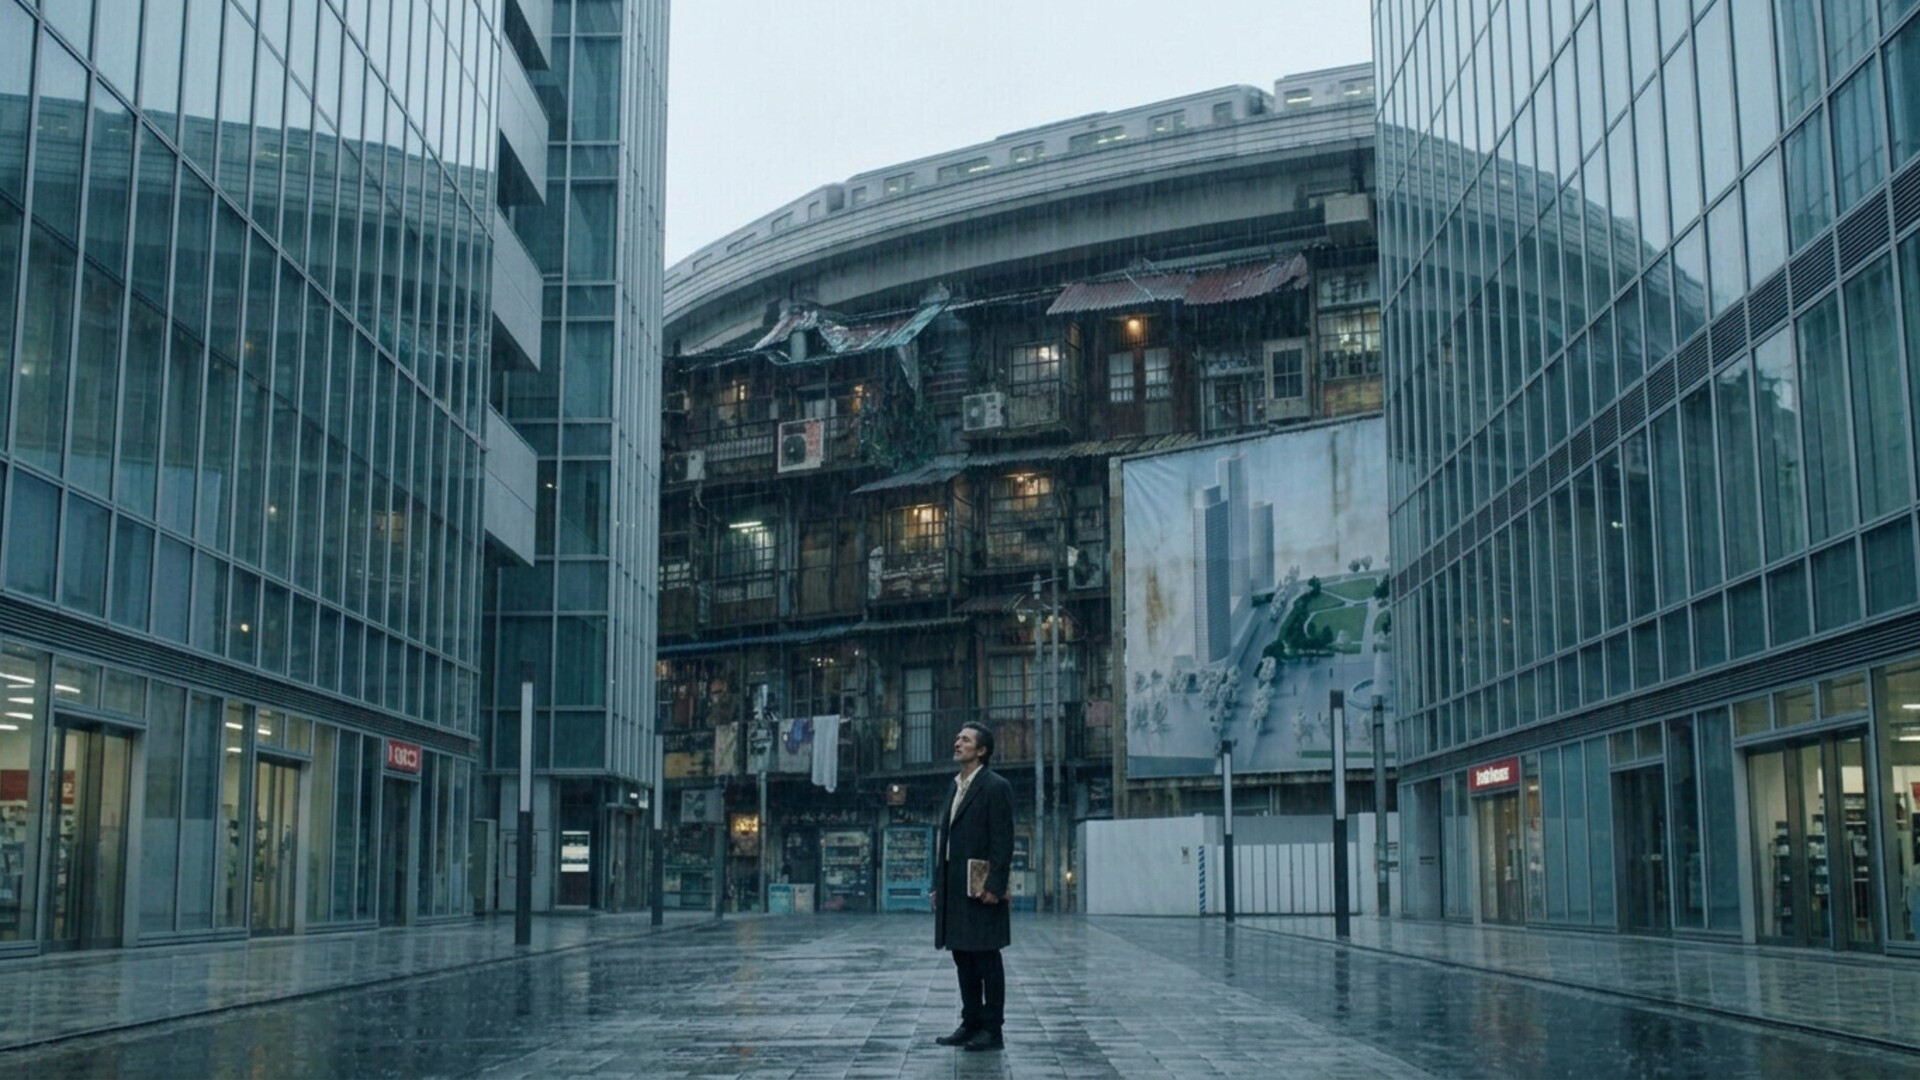
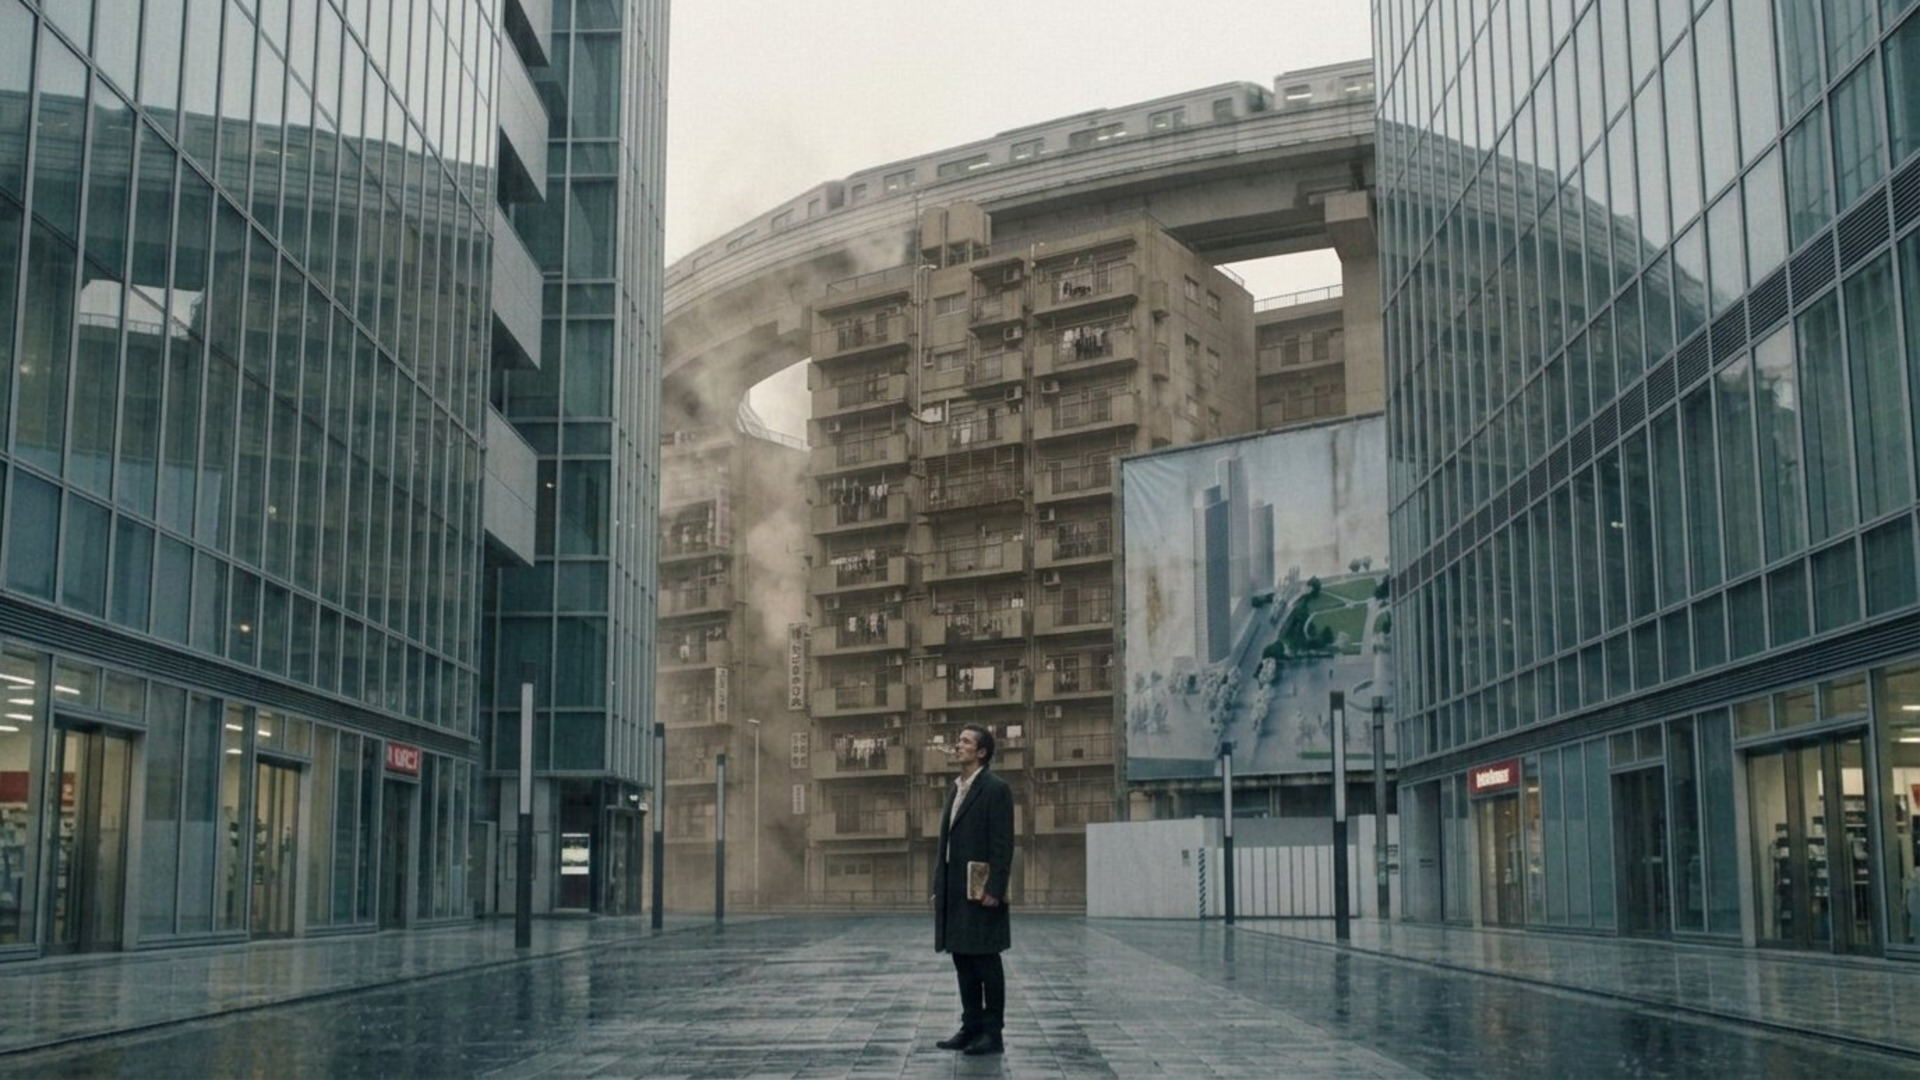
Neonoire: Hive retakes — wrong-building tier started (184 installed, six queued behind the image cap)
- hiveRetakenExteriors (7): the director's 'wrong building and wrong look' tier,
  retaken 29 September 2026 as base-frame edits with the canon sheet alongside as
  the architecture reference; s15/184 retaken and installed (canon tower between
  the glass towers, day murk, staging and unlettered banner held).
- The other six tier-1 frames hold their originals: the first attempts kept the
  old wooden facade; canon-sheet regeneration queued first next session (the
  per-turn image cap stopped mid-pass).
- Queue restructured to the tiers: hiveCanonRetakes (3 interior set failures),
  hiveLookRetakes (24 look only), hiveNextPassPlan (27); verify updated and green.
- Ledger retake-pass section + caveats, handoff current state, shot 186 board note.

diff --git a/docs/neonoire/passes/hive-canon.md b/docs/neonoire/passes/hive-canon.md
@@ -1,6 +1,6 @@
 # NEONOIRE — the Hive canon: one building, one look file (28 September 2026)
 
-**Scope:** no shots generated this pass beyond the six canon sheets; the retakes queue as the next generation pass (thirty-four frames, one call each). The deliverable is [`scripts/neonoire/hive-canon-look.mjs`](../../../scripts/neonoire/hive-canon-look.mjs): the canonical geometry, the six sheet prompts with their reference chain, the shared negative prompt, the NIGHT and DAY look sections, the standing rules, and the retake queue.
+**Scope:** no shots generated the canon pass beyond the six canon sheets; the retakes queued as the next generation pass (thirty-four frames, one call each) have since been broken into the director's tiers — the seven wrong-building exteriors were retaken on 29 September 2026 (below), twenty-seven frames remain queued. The deliverable is [`scripts/neonoire/hive-canon-look.mjs`](../../../scripts/neonoire/hive-canon-look.mjs): the canonical geometry, the six sheet prompts with their reference chain, the shared negative prompt, the NIGHT and DAY look sections, the standing rules, and the retake queue.
 
 **The problem.** The Hive was boarded across five sessions from five look files, and each described the building differently: s15/184 a squat 6–7-storey block on a plaza; s59/226 a tall narrow tower on a tight street; s92/135 a nine-storey slab by a viaduct pillar; s97 a five-storey block with the railway at height; s99/156 an ordinary apartment block. Inside, s55/221 drew the counter as a white-tiled corridor with the 金子 sign ON the counter, s68/235 gave the storeroom shelving and a teal doorway, and s85/119 drew the passage three abreast where the draft says single file. The draft itself contradicts itself: "eleven storeys", yet scene 90 jumps from the roof onto the railway walkway.
 
@@ -40,26 +40,40 @@ Generated in order, each finished sheet a reference for the next; installed 1920
 - **Labels garble in places** on the cutaway and the sheet captions, as ever. The load-bearing labels read clean (six stools, storeroom, viaduct level with rear roof, one-metre gap, FLOUR sacks, the 金子 board). Footer placeholders ([Name], [Project Title]) are cosmetic. These sheets are geometry/look references that never appear on screen.
 - **Review status:** the night and day exteriors and the cutaway were read at full size and match the canon. The review pipeline served scrambled attachments mid-session, so the counter, storeroom and passages sheets were installed on their generation prompts plus dimensions and palette statistics (counter/storeroom warm, R>G>B; passages the darkest and steel-blue; the day sheet the lowest saturation) — give them a full-size look before the retake pass runs.
 - **Storey counts** still read a storey tall or short between panels at this size; the count is locked by the cutaway's "FLOORS 1–11".
+- **Retake-pass review status (29 September 2026):** shot 186's retake was read at full size and matches the canon (eleven-storey concrete tower, balcony grid, viaduct with train, day murk, Jack alone with the sketchbook, unlettered hoarding banner). The other six tier-1 frames are held at their originals pending regeneration: the first attempts (edit of the old frame alone) held every staging lock but kept the old building's materials — wood and corrugated tin where the canon is stained concrete — so the pass switched to editing with the canon sheet passed alongside as the architecture reference, which 186 confirms works. The per-turn image cap (ten generations) stopped the remaining six mid-pass; they are queued first thing next session.
+- **The session's image viewer served scrambled or stale attachments** at various points (wrong frame per path, results offset by a slot). Full-size visual sign-off of the remaining retakes must be done with fresh per-file reads and cross-checked against the boards' staging lines; palette statistics (day frames shift from blue-dominant to grey-ochre R≥B, the night frame from warm to steel) are the fallback check.
+- **s15/184's banner stays unlettered.** The canon sheet's hoarding carries KUROSE DEVELOPMENT; the frame's standing note says the banner lettering is absent in this study, and the retake holds the frame's state.
 - The scene set `hiveCanonScenes` is corrected in this pass: it drops s14 (Mara's apartment), s47 (the inn's back yard) and s91 (the railway maintenance walkway) and gains s19, s20, s67, s69 and s71 — the counter night, the storeroom and the passages that are the Hive. s22 and s100 stay out: the draft itself calls scene 22 "a different place" (the brick arch counter), and scene 100 is Kaneko's new counter after the Hive is gone.
 
-## The retake queue — the next pass plan (thirty-four frames, one call each)
+## The retake pass (29 September 2026): the wrong-building tier
 
-Every frame below is a Hive shot and nothing else; each carries the new look, and the eight geometry failures carry both problems. Day frames regenerate against `hive-exterior-day` and `hiveCanonDay`; night frames against `hive-exterior-night` and `hiveCanonNight`; interiors against their set sheets. Staging locks noted below travel with the retake. In code: `hiveCanonRetakes` (8), `hiveLookRetakes` (26), run order `hiveNextPassPlan`.
+The director's breakdown runs three tiers: **wrong building and wrong look** (the Hive seen from outside), **wrong set and wrong look** (interior set failures), **wrong look only**. Tier 1 is retaken this pass — the seven exteriors below. Each is an edit of the original frame with the matching canon sheet (`hive-exterior-day`, `hive-exterior-night`, or `hive-section` for the demolition) passed alongside it as the architecture reference: staging, cast, wardrobe, vehicles and props held to the base frame, only the building and the light replaced.
 
-### DAY (21)
+| Shot | Frame | Look | Was | Status |
+| --- | --- | --- | --- | --- |
+| 186 | `s15/184-a-gap-in-someones-teeth.jpg` | day | squat 6–7-storey block on a plaza; blue-grey rainy daylight | **RETAKEN + INSTALLED** — eleven-storey concrete tower between the glass towers under the viaduct's curve, day murk, hoarding and staging carried, banner stays unlettered as in the study |
+| 228 | `s59/226-at-the-edge-of-a-high-place.jpg` | day | tall narrow tower on a tight street; bright wet street light | regen pending (see caveats) — original frame on disk |
+| 137 | `s92/135-below-the-viaduct.jpg` | night | nine-storey slab by a pillar; hundreds of bright windows | regen pending (see caveats) — original frame on disk |
+| 148 | `s97/146-tomorrows-tokyo.jpg` | day | five-storey block, railway at height behind; cold blue pre-dawn | regen pending (see caveats) — original frame on disk |
+| 150 | `s97/148-four-men.jpg` | day | wrong block behind the ceremony; cold blue-grey | regen pending (see caveats) — original frame on disk |
+| 151 | `s97/149-twenty-metres.jpg` | day | wrong facade behind the tent; dark blue pre-dawn | regen pending (see caveats) — original frame on disk |
+| 158 | `s99/156-cut-open.jpg` | day | ordinary five-storey apartment block; plain overcast | regen pending (see caveats) — original frame on disk |
+
+In code: `hiveRetakenExteriors` (7). The per-shot staging, quotes and locked notes in the boards carry through untouched; shot 186's board note records the retake.
+
+## The retake queue — the next pass plan (twenty-seven frames, one call each)
+
+Every frame below is a Hive shot and nothing else; each carries the new look, and the three interior set failures carry both problems. Day frames regenerate against `hive-exterior-day` and `hiveCanonDay`; night frames against `hive-exterior-night` and `hiveCanonNight`; interiors against their set sheets. Staging locks noted below travel with the retake. In code: `hiveCanonRetakes` (3 set failures), `hiveLookRetakes` (24 look only), run order `hiveNextPassPlan` (27).
+
+### DAY (15)
 
 | Shot | Frame | Problem |
 | --- | --- | --- |
-| 148 | `s97/146-tomorrows-tokyo.jpg` | five-storey block with the railway at height behind (geometry); blue pre-dawn light. Scene 97: tent, shovel and banner sharp, clean and cold against the murk |
 | 149 | `s97/147-the-same-morning-news.jpg` | shop window at the Hive's edge reads blue pre-dawn; the street is ordinary grey daylight. Props unchanged |
-| 150 | `s97/148-four-men.jpg` | ceremony reads cold blue-grey; day look is pale grey-ochre murk |
-| 151 | `s97/149-twenty-metres.jpg` | wide reads dark blue pre-dawn with the wrong facade behind the tent; carry the murk and the canon tower |
 | 152 | `s97/150-she-does-not-look-away.jpg` | close-up lit blue-grey; day look is flat, milky, dim |
 | 153 | `s97/151-collar-up.jpg` | blue-grey pre-dawn on the street; ordinary grey daylight outside the murk |
 | 154 | `s97/152-the-ribbon.jpg` | shovel against dark rain; scene 97 rule: sharp, clean and cold against the murk behind |
-| 158 | `s99/156-cut-open.jpg` | ordinary five-storey apartment block (geometry); plain overcast. Day murk; dead neon signs still hang from the cut-open floors in the dust |
 | 159 | `s99/157-the-sign.jpg` | crowd reads plain overcast; grey-ochre murk like a faded photograph, dead neon behind |
-| 186 | `s15/184-a-gap-in-someones-teeth.jpg` | squat block on a plaza (geometry); blue-grey daylight |
 | 187 | `s15/185-then-he-goes-in.jpg` | bright lit signage at the entrance; neon off but one faint sign. Entering is a threshold |
 | 188 | `s16/186-everybody-sees-him.jpg` | passages lit like a market; day passages are thin cold shafts with drifting steam and dust |
 | 189 | `s17/187-you-got-old.jpg` | lit fluorescent tube, green cast; the counter is one amber bulb, steam |
@@ -67,12 +81,11 @@ Every frame below is a Hive shot and nothing else; each carries the new look, an
 | 223 | `s55/221-they-match.jpg` | white-tiled corridor, sign on the counter (geometry); even modern light. Keep the canon counter, sign on the wall |
 | 225 | `s56/223-the-third-stool.jpg` | lit fluorescent; one amber bulb. **Keep the third-stool staging** — Vera third of six, two empty to her left, 金子 on the wall |
 | 227 | `s58/225-bring-her.jpg` | fluorescent and cool grade. **Keep the charcoal-coat third-stool motif** |
-| 228 | `s59/226-at-the-edge-of-a-high-place.jpg` | narrow tower on a tight street (geometry); bright wet street light |
 | 250 | `s16/248-exactly-the-drawing.jpg` | warm lamp rows and shop signs by day; thin cold shafts, one faint sign |
 | 253 | `s16/249-the-chair.jpg` | warm lamp rows at the dentist's chair; milky dim murk, thin cold shafts |
 | 266 | `s56/224-stool-three.jpg` | fluorescent, cool green grade. **Keep Vera third from the left** |
 
-### NIGHT (13)
+### NIGHT (12)
 
 | Shot | Frame | Problem |
 | --- | --- | --- |
@@ -82,7 +95,6 @@ Every frame below is a Hive shot and nothing else; each carries the new look, an
 | 126 | `s87/124-the-repairman.jpg` | saturated teal grade, blue smoke; desaturated near-monochrome. Keep the repairman exactly as `sheets/repairman.jpg` holds him |
 | 132 | `s90/130-the-roof.jpg` | saturated green city; steel-blue haze, distant light only small pools |
 | 133 | `s90/131-she-jumps.jpg` | saturated green city behind the jump |
-| 137 | `s92/135-below-the-viaduct.jpg` | nine-storey slab by a pillar (geometry); the Hive glows with hundreds of bright windows |
 | 138 | `s92/136-until-us.jpg` | hundreds of lit windows; mostly darkness, small amber pools |
 | 237 | `s68/235-rice-balls-for-the-car.jpg` | shelving and a teal doorway (geometry); cool green grade. Canon plywood box, one amber bulb |
 | 238 | `s69/236-vera-would-love-this.jpg` | green-lit passage around a lit CRT shopfront; amber pools against steel-blue haze |
@@ -100,6 +112,6 @@ s91 (the railway maintenance walkway is railway ground), s22 (the brick arch cou
 
 ## Also in this pass
 
-- `scripts/neonoire/hive-canon-look.mjs` exports `hiveCanon`, `hiveCanonNight`, `hiveCanonDay`, `hiveCanonRules`, `hiveCanonNegative`, the ordered `hiveCanonSheets` (six prompts, install paths, reference chains), `hiveCanonRetakes` (8 geometry), `hiveLookRetakes` (26 look), `hiveNextPassPlan` (34, run order), `hiveCanonScenes` and the `hiveCanonLook` note for the retake pass to embed.
+- `scripts/neonoire/hive-canon-look.mjs` exports `hiveCanon`, `hiveCanonNight`, `hiveCanonDay`, `hiveCanonRules`, `hiveCanonNegative`, the ordered `hiveCanonSheets` (six prompts, install paths, reference chains), `hiveRetakenExteriors` (7, the retaken wrong-building tier), `hiveCanonRetakes` (3 set failures), `hiveLookRetakes` (24 look), `hiveNextPassPlan` (27, run order), `hiveCanonScenes` and the `hiveCanonLook` note for the retake pass to embed.
 - The Hive look files (`hive-look`, `hive-first-look`, `hive-morning-look`, `escape-look`, `ending-look`'s demolition, `confrontation-look`'s storeroom) now defer to the canon for lighting and atmosphere and carry no other change; every verify-locked continuity substring survives.
-- `scripts/verify-neonoire.mjs` checks the six sheets are 1920×1080, that all thirty-four queued frames exist and queue once with a day or night tag, and that the canon text, rules and negative terms travel with the look file.
+- `scripts/verify-neonoire.mjs` checks the six sheets and the seven retaken exteriors are 1920×1080, that all twenty-seven queued frames exist and queue once with a day or night tag, that the done and pending tiers cover thirty-four frames exactly, and that the canon text, rules and negative terms travel with the look file.

diff --git a/docs/neonoire/handoff.md b/docs/neonoire/handoff.md
@@ -1,5 +1,9 @@
 # NEONOIRE — keyframe handoff
 
+## Current state — 29 September 2026 (the Hive retakes: the wrong-building tier)
+
+The director ordered the "wrong building and wrong look" exteriors retaken — **seven frames, each with the canon Hive geometry fix AND the new day or night look**: s15/184 (Jack's first sight, day murk), s59/226 (Vera and Jack outside after the near miss, day murk), s92/135 (below the viaduct after the escape, night), s97/146, 148, 149 (the ceremony wides with the Hive behind — day murk, dead neon, clean white tent), s99/156 (the demolition — day murk, dead signs on the cut-open floors). The recipe that works: **edit the original frame with the matching canon sheet passed alongside as the architecture reference** (`hive-exterior-day` / `hive-exterior-night`; `hive-section` for the demolition) — the sheet forces the stained-concrete eleven-storey tower and balcony grid that an edit of the old frame alone would not produce, while the base frame holds every staging lock (third stool, coat motifs, cast sheets, vehicles, props). **s15/184 is retaken and installed** (read at full size: canon tower between the glass towers under the viaduct's curve, day murk, Jack alone with the sketchbook, banner unlettered per the frame's standing note). **The other six are regen-pending**: first attempts held the staging but kept the old wooden facade, and the per-turn image cap stopped the canon-sheet regeneration — originals on disk, queued first next session. Caveats and per-shot status: [hive-canon.md](passes/hive-canon.md). Queue restructured to the director's tiers: `hiveRetakenExteriors` (7, done) / `hiveCanonRetakes` (3 interior set failures) / `hiveLookRetakes` (24 look only), run order `hiveNextPassPlan` (27). **Watch the image viewer** — it served scrambled attachments this session; sign off retakes with fresh per-file reads.
+
 ## Current state — 28 September 2026 (the Hive look: new NIGHT and new DAY)
 
 The director has replaced the Hive's lighting and atmosphere wording, day and night — **only the Hive**; every other location's look file is untouched. The three sections (the sixty-year retrofit and steam vents; the NIGHT of small amber pools against cold steel-blue haze with sparse dim faded neon; the DAY of pale grey-ochre murk, thin cold shafts and one faint sign) live in **[scripts/neonoire/hive-canon-look.mjs](../../scripts/neonoire/hive-canon-look.mjs)** as `hiveCanonNight`, `hiveCanonDay` and the appended `hiveCanon`, with the standing rules in `hiveCanonRules` (counter and storeroom warmest — one bulb, amber tungsten, steam; scene 97's tent/shovel/banner sharp, clean and cold against the murk; scene 99's dead neon in the dust; the threshold at the entrance; small old lights only — no advertising, no brands, no screens bigger than an old CRT; never a film title in a prompt) and the expanded negative prompt in `hiveCanonNegative`. Six canon sheets replace the five: **hive-exterior-night** and **hive-exterior-day** split the old four-panel exterior (which is removed), and **hive-section**, **hive-counter**, **hive-storeroom**, **hive-passages-roof** were regenerated to the look — the counter and storeroom sheets no longer matched the one-bulb rule (a lit fluorescent tube), so they carry the same geometry with the tube unlit. Ledger with caveats: [hive-canon.md](passes/hive-canon.md). **Thirty-four Hive frames queue as the next generation pass** — the eight geometry retakes (`hiveCanonRetakes`) plus twenty-six look retakes (`hiveLookRetakes`), day and night tables in the ledger, run order in `hiveNextPassPlan`; already-on-canon frames and everything outside the Hive are listed and stay untouched. Verify checks the six sheets, the queues and the canon text. Review sheet: `public/images/neonoire/reviews/hive-look-pass-1.jpg`.

diff --git a/docs/neonoire/scenes/n15-the-hive-day.md b/docs/neonoire/scenes/n15-the-hive-day.md
@@ -21,7 +21,7 @@ LIGHT: Overcast soft
 TIME: 10
 ID: neonoire-shot-186
 IMAGE: 184-a-gap-in-someones-teeth.jpg
-NOTE: The scene master. The banner's KUROSE DEVELOPMENT and TOMORROW'S TOKYO are not lettered. The pavement reads damp rather than raining.
+NOTE: The scene master. The banner's KUROSE DEVELOPMENT and TOMORROW'S TOKYO are not lettered. The pavement reads damp rather than raining. Retake 29 September 2026 — wrong building and wrong look: rebuilt on the canon eleven-storey Hive between the glass towers in the day murk, hoarding, banner and staging carried over; the banner stays unlettered as in the study.
 
 187. MEDIUM — 50mm, static, low angle — then he goes in.
 From a low camera square to the flight: a steep, rusted outside stair climbs between balconies, laundry and air conditioners. Jack climbs it seen from behind, one hand on the rail.
